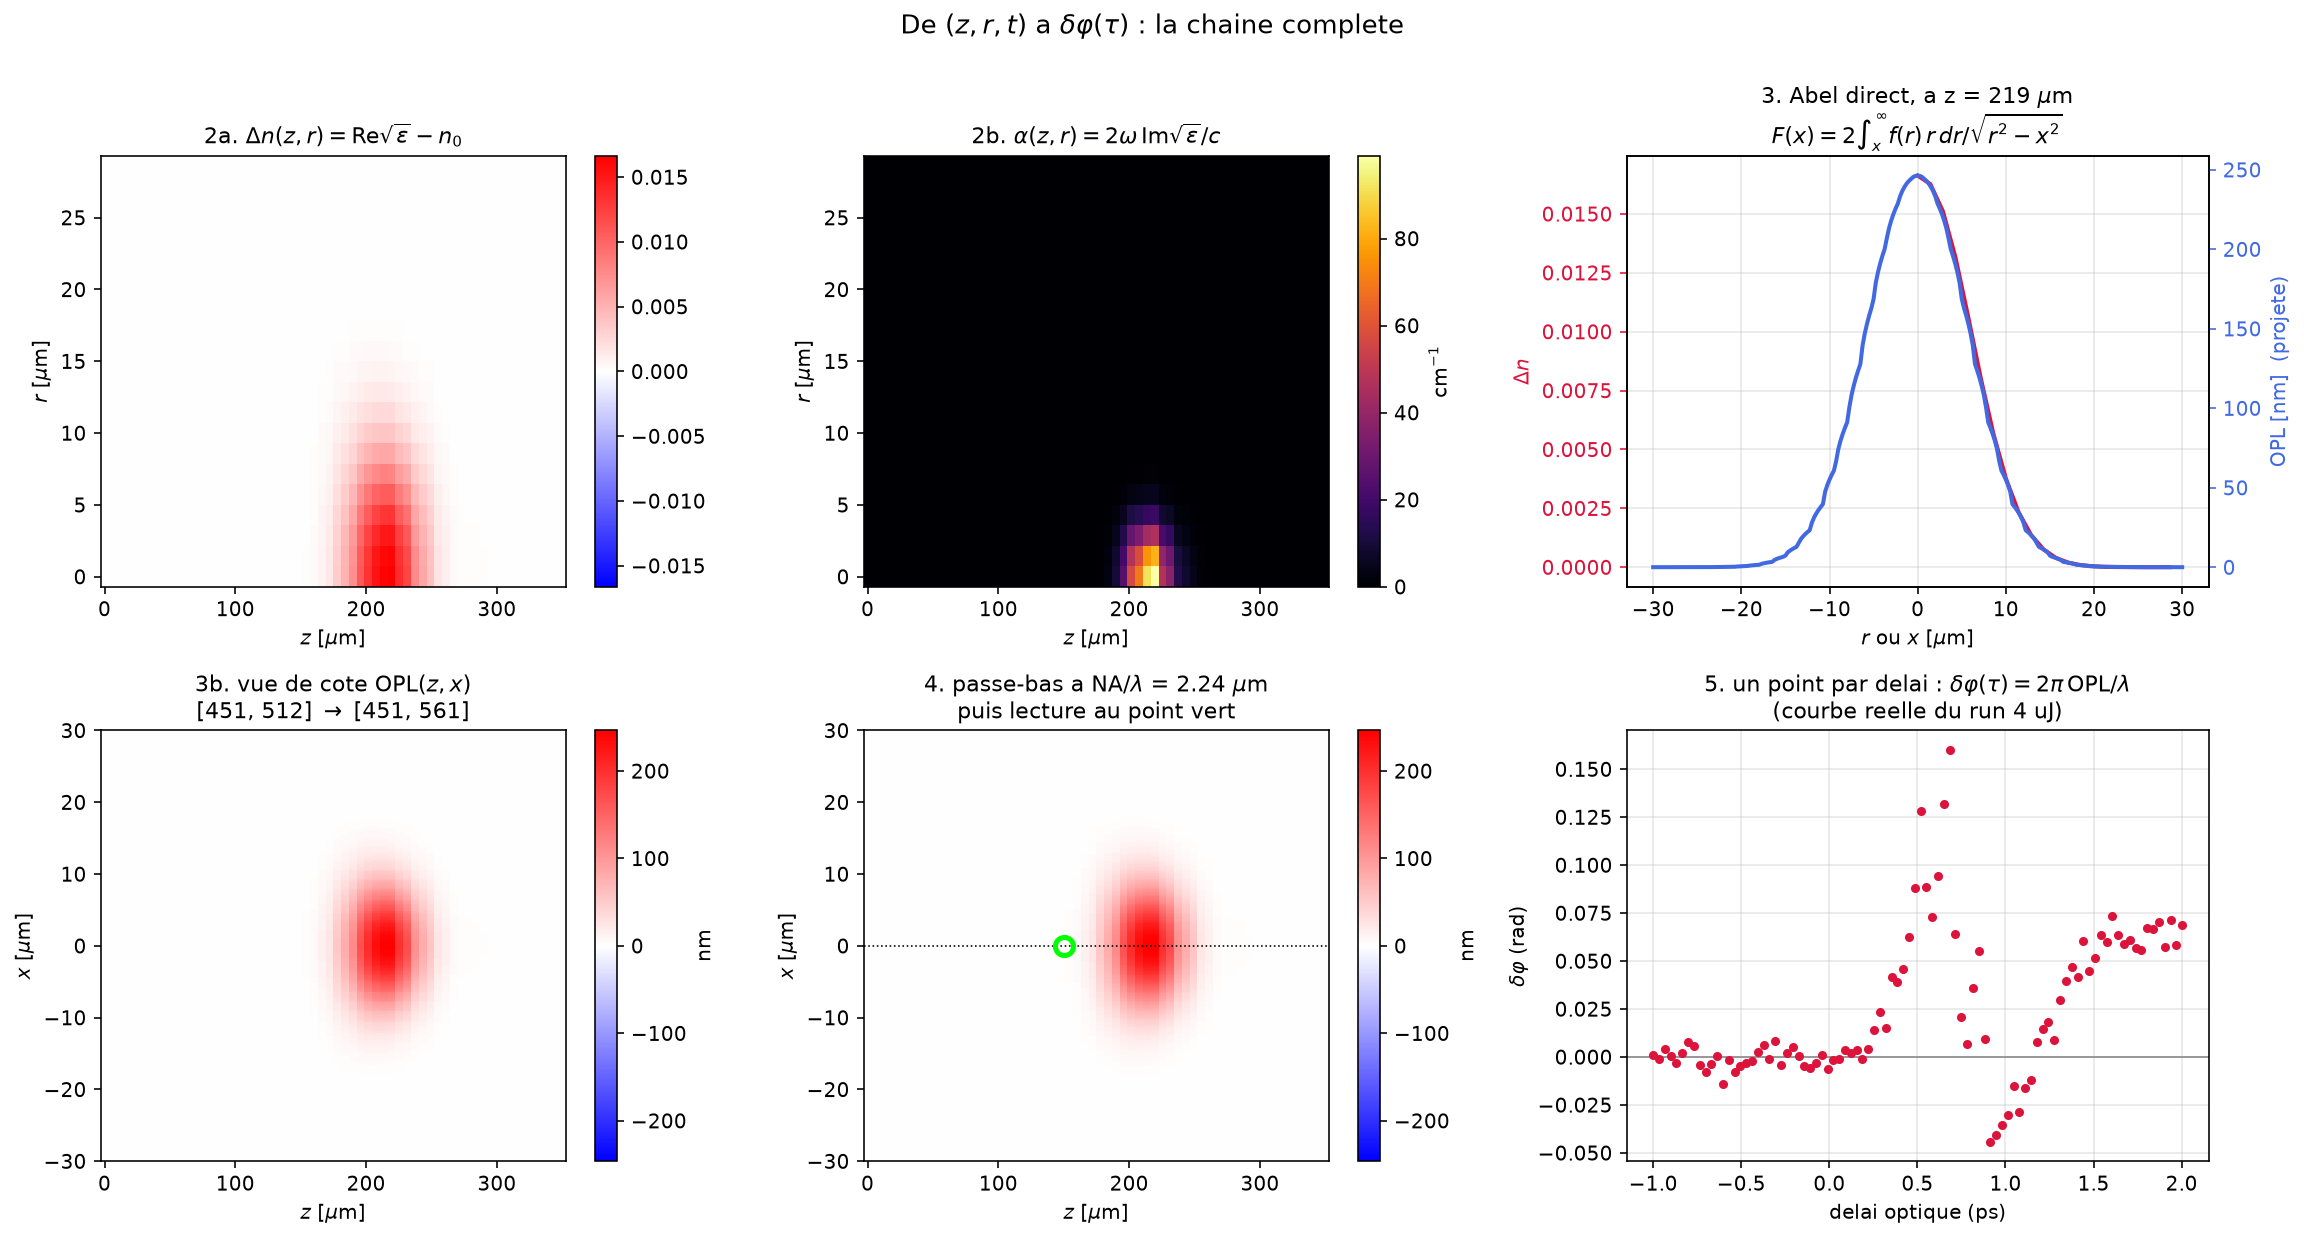
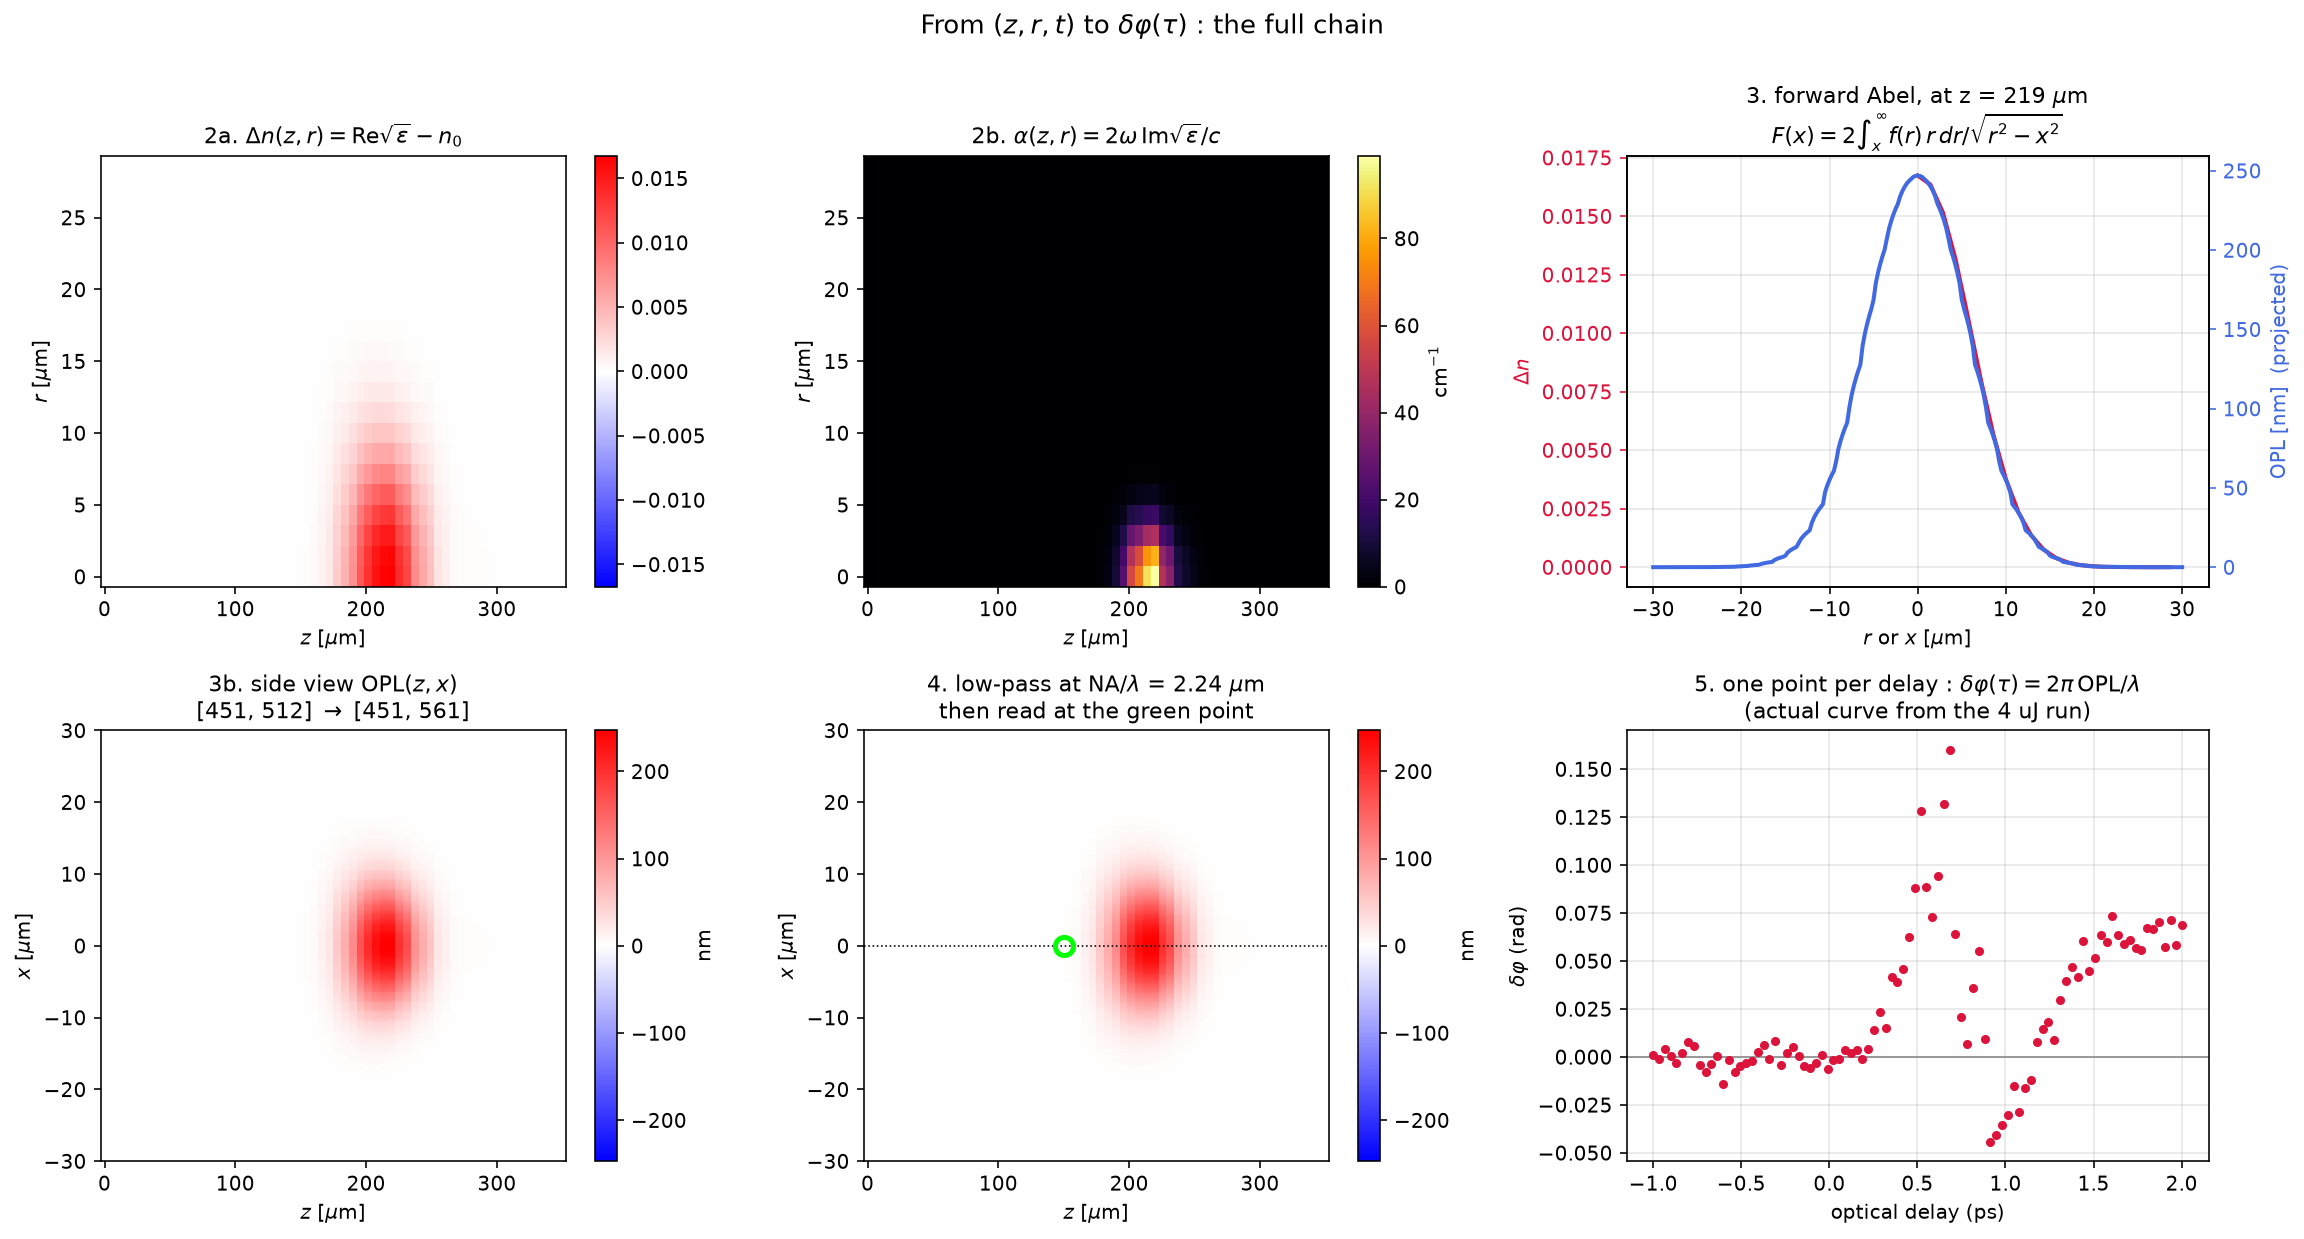
Textes de figures en anglais dans tous les modules
Les libelles, legendes, titres et annotations restes en francais passent en
anglais, pour etre coherents avec le corps du rapport et avec figures_report
qui l'etait deja : plot_opl_panel (vues de dessus et de cote),
plot_free_vs_trapped_vs_z, plot_experiment_overlay, fit_beam_profile, et les
deux scripts de figures explicatives de la chaine de post-traitement.

Les docstrings et les commentaires de code restent en francais, comme le reste
du depot.

Figures regenerees : les deux planches de pipeline et la reproduction de la
Fig. 6 de Martin et al., toutes deux avec la correction de deplation.

Claude-Session: https://claude.ai/code/session_01Ly1fp2Zkw8bxc6Fp76z24m

diff --git a/.github/1630/sim/figures/fig_pipeline.py b/.github/1630/sim/figures/fig_pipeline.py
@@ -16,7 +16,7 @@ fig, ax = plt.subplots(1, 2, figsize=(13, 5),
 a = ax[0]
 a.add_patch(Rectangle((z[0], t_sub[0]), z[-1]-z[0], t_sub[-1]-t_sub[0],
                       fc="0.90", ec="0.55", lw=1.2, zorder=0))
-a.text(0.5*(z[0]+z[-1]), t_sub[-1]-120, "fenetre temporelle du solveur",
+a.text(0.5*(z[0]+z[-1]), t_sub[-1]-120, "solver temporal window",
        ha="center", fontsize=9, color="0.35")
 cols = plt.cm.viridis(np.linspace(0.05, 0.85, 5))
 for tau, c in zip((0, 500, 1000, 1500, 2000), cols):
@@ -27,16 +27,16 @@ for tau, c in zip((0, 500, 1000, 1500, 2000), cols):
     j = np.argmin(np.abs(z - z[-1]*0.06))
     a.text(z[j], tl[j]+55, rf"$\tau$ = {tau} fs", color=c, fontsize=9,
            fontweight="bold")
-a.set_xlabel(r"$z$ [$\mu$m]"); a.set_ylabel(r"temps local de la pompe $t$ [fs]")
-a.set_title("Etape 1 : la sonde coupe le cube EN BIAIS\n"
+a.set_xlabel(r"$z$ [$\mu$m]"); a.set_ylabel(r"local pump time $t$ [fs]")
+a.set_title("Step 1 : the probe cuts the cube AT AN ANGLE\n"
             r"$t_{local}(z)=\tau - z/v_g$", fontsize=11)
 a.set_ylim(t_sub[0]-500, t_sub[-1]+400)
 a.grid(alpha=.3)
 a.annotate("", xy=(z[-1], -1500), xytext=(z[0], -1500),
            arrowprops=dict(arrowstyle="<->", color="crimson", lw=1.5))
-a.text(0.5*(z[0]+z[-1]), -1400, f"la pompe met {z[-1]/vg*1e3:.0f} fs\n"
-       f"pour traverser la boite", ha="center", fontsize=9, color="crimson")
-a.text(z[-1]*0.55, t_sub[0]-380, "pointille = hors fenetre,\nprolongement analytique",
+a.text(0.5*(z[0]+z[-1]), -1400, f"the pump needs {z[-1]/vg*1e3:.0f} fs\n"
+       f"to cross the box", ha="center", fontsize=9, color="crimson")
+a.text(z[-1]*0.55, t_sub[0]-380, "dotted = outside the window,\nanalytic continuation",
        fontsize=8.5, color="0.35")
 
 d = ff.probe_opl_transmittance(res, 1000.0, x_half_um=70.0, **PK)
@@ -44,7 +44,7 @@ rho = np.asarray(d["rho_e_rz"]); r = d["r_pos_um"]
 b = ax[1]
 im = b.pcolormesh(z, r[r<=30], rho[:, r<=30].T, cmap="magma", shading="auto")
 b.set_xlabel(r"$z$ [$\mu$m]"); b.set_ylabel(r"$r$ [$\mu$m]")
-b.set_title(r"ce que la coupe donne : $\rho_e(z,r)$ a $\tau$ = 1000 fs"
+b.set_title(r"what the cut yields : $\rho_e(z,r)$ at $\tau$ = 1000 fs"
             "\n" r"[451, 512, 256] $\rightarrow$ [451, 512]", fontsize=11)
 fig.colorbar(im, ax=b, label=r"$\rho_e$ [cm$^{-3}$]")
 fig.tight_layout(); fig.savefig("/tmp/pipeline_1.png", dpi=155, bbox_inches="tight")
@@ -65,22 +65,22 @@ for k in (0,1): ax[0,k].set_xlabel(r"$z$ [$\mu$m]"); ax[0,k].set_ylabel(r"$r$ [$
 
 iz = int(np.argmax(np.abs(d["opl_nm"]).max(axis=1)))
 c = ax[0,2]
-c.plot(r[mr], dn[iz][mr], color="crimson", lw=2, label=r"$\Delta n(r)$ local")
-c.set_xlabel(r"$r$ ou $x$ [$\mu$m]"); c.set_ylabel(r"$\Delta n$", color="crimson")
+c.plot(r[mr], dn[iz][mr], color="crimson", lw=2, label=r"local $\Delta n(r)$")
+c.set_xlabel(r"$r$ or $x$ [$\mu$m]"); c.set_ylabel(r"$\Delta n$", color="crimson")
 c.tick_params(axis="y", colors="crimson")
 c2 = c.twinx()
 xx = d["x_um"]; mx = np.abs(xx) <= 30
 c2.plot(xx[mx], d["opl_nm"][iz][mx], color="royalblue", lw=2)
-c2.set_ylabel("OPL [nm]  (projete)", color="royalblue")
+c2.set_ylabel("OPL [nm]  (projected)", color="royalblue")
 c2.tick_params(axis="y", colors="royalblue")
-c.set_title(f"3. Abel direct, a z = {z[iz]:.0f} " r"$\mu$m"
+c.set_title(f"3. forward Abel, at z = {z[iz]:.0f} " r"$\mu$m"
             "\n" r"$F(x)=2\int_x^\infty f(r)\,r\,dr/\sqrt{r^2-x^2}$", fontsize=11)
 c.grid(alpha=.3)
 
 opl = np.asarray(d["opl_nm"])
 p = ax[1,0].pcolormesh(z, xx, opl.T, cmap="bwr", shading="auto",
                        vmin=-np.abs(opl).max(), vmax=np.abs(opl).max())
-ax[1,0].set_title("3b. vue de cote OPL$(z,x)$\n[451, 512] $\\rightarrow$ [451, 561]", fontsize=11)
+ax[1,0].set_title("3b. side view OPL$(z,x)$\n[451, 512] $\\rightarrow$ [451, 561]", fontsize=11)
 fig.colorbar(p, ax=ax[1,0], label="nm")
 
 dzs = float(np.mean(np.diff(z))); dxs = float(np.mean(np.diff(xx)))
@@ -89,8 +89,8 @@ p = ax[1,1].pcolormesh(z, xx, lp.T, cmap="bwr", shading="auto",
                        vmin=-np.abs(opl).max(), vmax=np.abs(opl).max())
 ax[1,1].axhline(0, color="k", lw=.8, ls=":")
 ax[1,1].plot([150],[0], "o", ms=9, mfc="none", mec="lime", mew=2.5)
-ax[1,1].set_title(f"4. passe-bas a NA/$\\lambda$ = {NOMARSKI_515.resolution_um:.2f} "
-                  r"$\mu$m" "\npuis lecture au point vert", fontsize=11)
+ax[1,1].set_title(f"4. low-pass at NA/$\\lambda$ = {NOMARSKI_515.resolution_um:.2f} "
+                  r"$\mu$m" "\nthen read at the green point", fontsize=11)
 fig.colorbar(p, ax=ax[1,1], label="nm")
 for k in (0,1):
     ax[1,k].set_xlabel(r"$z$ [$\mu$m]"); ax[1,k].set_ylabel(r"$x$ [$\mu$m]")
@@ -101,11 +101,11 @@ cur = np.loadtxt("/home/user/Rapport/.github/1630/notebooks/runs_z0/curve_4uJ.cs
 e = ax[1,2]
 e.axhline(0, color="0.6", lw=1)
 e.plot(cur[:,0]*1e-3, cur[:,1], "o", ms=3.5, color="crimson")
-e.set_xlabel("delai optique (ps)"); e.set_ylabel(r"$\delta\varphi$ (rad)")
-e.set_title(r"5. un point par delai : $\delta\varphi(\tau)=2\pi\,$OPL$/\lambda$"
-            "\n(courbe reelle du run 4 uJ)", fontsize=11)
+e.set_xlabel("optical delay (ps)"); e.set_ylabel(r"$\delta\varphi$ (rad)")
+e.set_title(r"5. one point per delay : $\delta\varphi(\tau)=2\pi\,$OPL$/\lambda$"
+            "\n(actual curve from the 4 uJ run)", fontsize=11)
 e.grid(alpha=.3)
-fig.suptitle("De $(z,r,t)$ a $\\delta\\varphi(\\tau)$ : la chaine complete",
+fig.suptitle("From $(z,r,t)$ to $\\delta\\varphi(\\tau)$ : the full chain",
              fontsize=13, y=1.00)
 fig.tight_layout(); fig.savefig("/tmp/pipeline_2.png", dpi=145, bbox_inches="tight")
 print("ok")

diff --git a/.github/1630/sim/figures_filament.py b/.github/1630/sim/figures_filament.py
@@ -227,7 +227,7 @@ def _plot_free_vs_trapped_ax(ax, res, z_target_um, label="", z_shift_um=0.0,
     # fenêtre tombent HORS du cadre au lieu d'être remontés sur un faux
     # plateau à l'intérieur.
     ax.plot(t_fs, np.clip(rho_e, 1e-30, None), color="black", lw=1.4, label="ρ_e libre")
-    ax.plot(t_fs, np.clip(rho_s, 1e-30, None), color="tab:blue", lw=1.4, label="ρ_s piégé")
+    ax.plot(t_fs, np.clip(rho_s, 1e-30, None), color="tab:blue", lw=1.4, label="ρ_s trapped")
     ax.set_yscale("log")
     if xlim is not None: ax.set_xlim(*xlim)
     if ylim is not None: ax.set_ylim(*ylim)
@@ -370,7 +370,7 @@ def plot_free_vs_trapped_vs_z(res, save=None, z_shift_um=0.0, rho_max_cm3=None,
     i_axis = onaxis_index(res)
     fig, ax = plt.subplots(figsize=(10, 5))
     ax.plot(z_um, np.clip(res["rho_rz"][:, i_axis], 1e-3, None),
-            lw=1.6, color="black", label="ρ_e (libres)")
+            lw=1.6, color="black", label="ρ_e (free)")
     ax.plot(z_um, np.clip(res["rho_s_rz"][:, i_axis], 1e-3, None),
             lw=1.6, color="tab:blue", label="ρ_s (STE)")
     if rho_max_cm3:
@@ -384,7 +384,7 @@ def plot_free_vs_trapped_vs_z(res, save=None, z_shift_um=0.0, rho_max_cm3=None,
     if xlim is not None: ax.set_xlim(*xlim)
     if ylim is not None: ax.set_ylim(*ylim)
     ax.set_xlabel("z (µm)"); ax.set_ylabel("On-axis ρ (cm⁻³)")
-    ax.set_title("Électrons libres vs excitons auto-piégés le long de z")
+    ax.set_title("Free electrons vs self-trapped excitons along z")
     ax.legend(fontsize=7, ncol=2)
     fig.tight_layout()
     if save: fig.savefig(save, dpi=150)
@@ -1053,7 +1053,7 @@ def plot_opl_panel(res, delay_fs, z_face_um=None, z_shift_um=0.0, z_lim=None,
 
     im0 = ax[0, 0].imshow(face_opl, cmap="bwr", vmin=-opl_clip_nm, vmax=opl_clip_nm,
                           extent=ext_face, origin="lower")
-    ax[0, 0].set_title("top OPL (integre sur toute la colonne)"); ax[0, 0].set_xlabel("x [um]"); ax[0, 0].set_ylabel("y [um]")
+    ax[0, 0].set_title("top OPL (integrated over the whole column)"); ax[0, 0].set_xlabel("x [um]"); ax[0, 0].set_ylabel("y [um]")
 
     im1 = ax[0, 1].imshow(opl.T, cmap="bwr", vmin=-opl_clip_nm, vmax=opl_clip_nm,
                           extent=ext_side, origin="lower", aspect="auto")
@@ -1063,7 +1063,7 @@ def plot_opl_panel(res, delay_fs, z_face_um=None, z_shift_um=0.0, z_lim=None,
 
     im2 = ax[1, 0].imshow(face_T, cmap="gray", vmin=t_lim[0], vmax=t_lim[1],
                           extent=ext_face, origin="lower")
-    ax[1, 0].set_title("top transmittance (integre sur toute la colonne)"); ax[1, 0].set_xlabel("x [um]"); ax[1, 0].set_ylabel("y [um]")
+    ax[1, 0].set_title("top transmittance (integrated over the whole column)"); ax[1, 0].set_xlabel("x [um]"); ax[1, 0].set_ylabel("y [um]")
 
     im3 = ax[1, 1].imshow(T.T, cmap="gray", vmin=t_lim[0], vmax=t_lim[1],
                           extent=ext_side, origin="lower", aspect="auto")

diff --git a/.github/1630/sim/figures/fig1.py b/.github/1630/sim/figures/fig1.py
@@ -14,7 +14,7 @@ gs = fig.add_gridspec(1, 2, width_ratios=[1.3, 1], wspace=0.28)
 a = fig.add_subplot(gs[0])
 a.add_patch(Rectangle((z[0], t_sub[0]), z[-1]-z[0], t_sub[-1]-t_sub[0],
                       fc="#e8e8ee", ec="0.5", lw=1.2, zorder=0))
-a.text(z[-1]*0.5, t_sub[-1]*0.62, "fenetre temporelle du cube",
+a.text(z[-1]*0.5, t_sub[-1]*0.62, "solver temporal window",
        ha="center", fontsize=9.5, color="0.35", zorder=1)
 cols = plt.cm.plasma(np.linspace(0.05, 0.8, 5))
 for tau, c in zip((0, 500, 1000, 1500, 2000), cols):
@@ -26,15 +26,15 @@ for tau, c in zip((0, 500, 1000, 1500, 2000), cols):
     a.text(z[k]+6, tl[k]+30, rf"$\tau$={tau} fs", color=c, fontsize=10,
            fontweight="bold", zorder=4)
 a.set_xlabel(r"$z$ [$\mu$m]", fontsize=11)
-a.set_ylabel(r"temps local de la pompe  $t$ [fs]", fontsize=11)
-a.set_title("Etape 1 — la sonde coupe le cube EN BIAIS\n"
+a.set_ylabel(r"local pump time  $t$ [fs]", fontsize=11)
+a.set_title("Step 1 — the probe cuts the cube AT AN ANGLE\n"
             r"$t_{local}(z)\;=\;\tau\;-\;z/v_g$", fontsize=12)
 lim = max(abs(t_sub[0]), abs(t_sub[-1]))*1.35
 a.set_ylim(-lim*1.5, lim); a.set_xlim(z[0]-8, z[-1]+8)
 a.grid(alpha=.3, zorder=0)
 a.text(z[-1]*0.42, -lim*1.32,
-       f"la pompe met {z[-1]/vg*1e3:.0f} fs pour traverser la boite\n"
-       "pointille : hors fenetre, prolongement analytique",
+       f"the pump needs {z[-1]/vg*1e3:.0f} fs to cross the box\n"
+       "dotted : outside the window, analytic continuation",
        fontsize=9.5, color="0.3")
 
 d = ff.probe_opl_transmittance(res, 1000.0, x_half_um=70.0, **PK)
@@ -42,7 +42,7 @@ rho = np.asarray(d["rho_e_rz"]); r = d["r_pos_um"]; m = r <= 25
 b = fig.add_subplot(gs[1])
 im = b.pcolormesh(z, r[m], rho[:, m].T, cmap="magma", shading="auto")
 b.set_xlabel(r"$z$ [$\mu$m]", fontsize=11); b.set_ylabel(r"$r$ [$\mu$m]", fontsize=11)
-b.set_title(r"la coupe donne une carte : $\rho_e(z,r)$ a $\tau=1000$ fs"
+b.set_title(r"the cut yields a map : $\rho_e(z,r)$ at $\tau=1000$ fs"
             "\n" r"[451, 512, 256]  $\rightarrow$  [451, 512]", fontsize=12)
 fig.colorbar(im, ax=b, label=r"$\rho_e$ [cm$^{-3}$]")
 fig.savefig("/tmp/pipeline_1.png", dpi=150, bbox_inches="tight")

diff --git a/.github/1630/sim/fit_beam_profile.py b/.github/1630/sim/fit_beam_profile.py
@@ -201,28 +201,28 @@ def plot_caustic(caus, fit=None, valid=None, pixel_um=None, s_um_per_unit=None,
 
     fig, ax = plt.subplots(figsize=(9.5, 5.5))
     ax.plot(caus["z"][good] * s, caus["w"][good] * p, "o", color="tab:blue", ms=7,
-            label=f"retenues ({good.sum()}) -- puissance coherente")
+            label=f"kept ({good.sum()}) -- consistent power")
     if rejected.any():
         ax.plot(caus["z"][rejected] * s, caus["w"][rejected] * p, "s", mfc="none",
                 mec="darkorange", ms=8, mew=1.6,
-                label=f"ecartees ({rejected.sum()}) -- densite optique differente")
+                label=f"rejected ({rejected.sum()}) -- different optical density")
     if sat.any():
         ax.plot(caus["z"][sat] * s, caus["w"][sat] * p, "x", color="crimson", ms=10, mew=2,
-                label="saturee")
+                label="saturated")
     if fit:
         zz = np.linspace(caus["z"].min(), caus["z"].max(), 400)
         ax.plot(zz * s, _caustic(zz, fit["w0_px"], fit["z0"], fit["zR"]) * p, "-",
                 color="black", lw=1.5,
-                label=(f"gaussienne : w0={fit['w0_px']*p:.2f}"
+                label=(f"Gaussian fit : w0={fit['w0_px']*p:.2f}"
                        f"{' µm' if pixel_um else ' px'}, zR={fit['zR']*s:.0f}"))
         ax.axvline(fit["z0"] * s, ls=":", color="gray", lw=1)
         if fit_window:
             ax.axvspan((fit["z0"] - fit_window) * s, (fit["z0"] + fit_window) * s,
-                       color="tab:blue", alpha=0.07, label="zone d'ajustement")
+                       color="tab:blue", alpha=0.07, label="fit region")
     unit = "µm" if (pixel_um and s_um_per_unit) else "unites brutes"
     ax.set_xlabel(f"z ({unit})")
-    ax.set_ylabel(f"w, rayon 1/e2 ({'µm' if pixel_um else 'px'})")
-    ax.set_title("Caustique mesuree vs modele gaussien")
+    ax.set_ylabel(f"w, 1/e2 radius ({'µm' if pixel_um else 'px'})")
+    ax.set_title("Measured caustic vs Gaussian model")
     ax.legend(fontsize=8, loc="upper center")
     fig.tight_layout()
     if save:

diff --git a/.github/1630/sim/virtual_experiment.py b/.github/1630/sim/virtual_experiment.py
@@ -241,14 +241,14 @@ def plot_experiment_overlay(sampled, model=None, measured=None, xlim_ps=(-0.5, 2
     a.axhline(0.0, color="0.6", lw=1)
     if model is not None:
         a.plot(np.asarray(model["delays_fs"]) * 1e-3, model["phase_rad"],
-               color="k", lw=1.8, zorder=1, label="modele (continu)")
+               color="k", lw=1.8, zorder=1, label="model (continuous)")
     a.plot(sampled["delays_fs"] * 1e-3, sampled["phase_rad"], "o",
            ms=3.5, color="crimson", alpha=0.8, zorder=2,
-           label="simulation echantillonnee comme la mesure")
+           label="simulation sampled as the measurement")
     if measured is not None:
         a.plot(np.asarray(measured["delays_fs"]) * 1e-3, measured["phase_rad"],
                "s", ms=4, mfc="none", color="royalblue", zorder=3,
-               label="mesure")
+               label="measurement")
     a.set_ylabel(r"$\delta\varphi$ (rad)")
     a.legend(fontsize=9)
     a.grid(alpha=0.3)
@@ -264,7 +264,7 @@ def plot_experiment_overlay(sampled, model=None, measured=None, xlim_ps=(-0.5, 2
         if measured is not None and "transmittance" in measured:
             b.plot(np.asarray(measured["delays_fs"]) * 1e-3,
                    measured["transmittance"], "s", ms=4, mfc="none",
-                   color="royalblue", label="mesure")
+                   color="royalblue", label="measurement")
         b.set_ylabel("transmittance")
         b.legend(fontsize=9)
         b.grid(alpha=0.3)

diff --git a/.github/1630/sim/pump_probe_0d.py b/.github/1630/sim/pump_probe_0d.py
@@ -316,7 +316,7 @@ def plot_delay_scan(cfg: PumpProbe0D, intensities_Wcm2, labels=None,
                        color=col, alpha=0.85, label=name)
         f = d["features"]
         a.set_ylabel("phase shift (rad)")
-        a.set_title(f"{lab}   pic {f['peak_rad']:+.2f} / creux {f['dip_rad']:+.2f} "
+        a.set_title(f"{lab}   peak {f['peak_rad']:+.2f} / dip {f['dip_rad']:+.2f} "
                     f"/ plateau {f['plateau_rad']:+.2f} rad", fontsize=10)
         a.grid(alpha=0.3)
         if k == 0:
